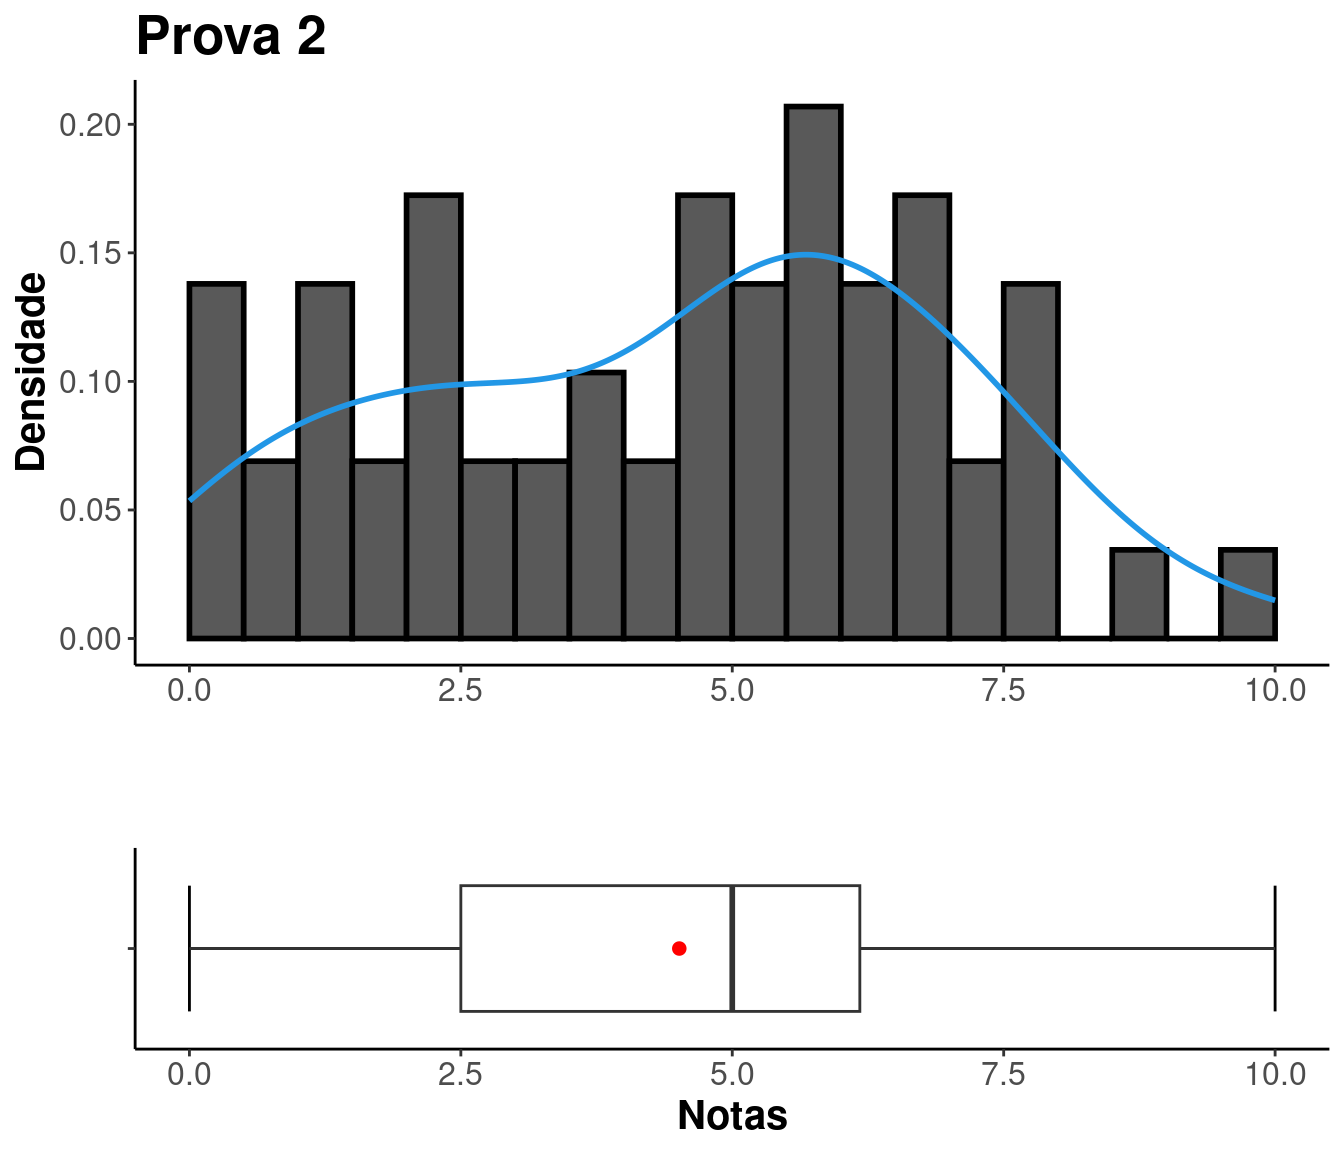
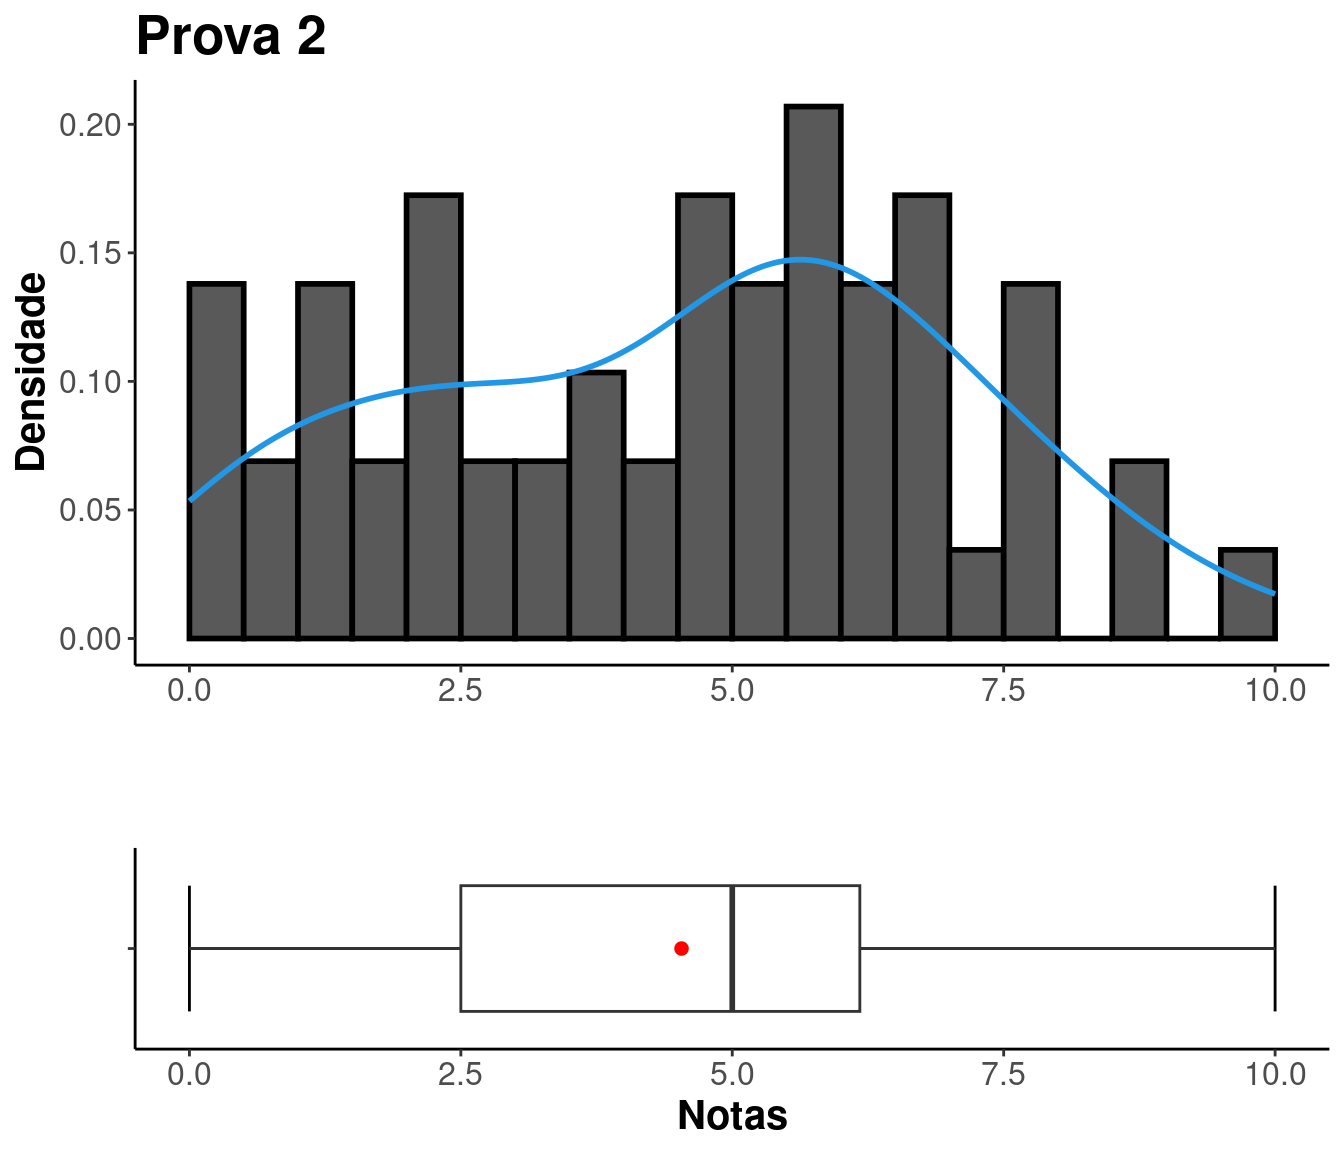
adiciona notas exame

diff --git a/notas.html b/notas.html
@@ -415,8 +415,8 @@ Cavazani de Freitas</div></h3>
 <p>Busque sua situação digitando seu GRR na caixa “Search”.</p>
 <p><br />
 </p>
-<div class="datatables html-widget html-fill-item" id="htmlwidget-8a1f7aeb4c11bf0b2bb7" style="width:100%;height:auto;"></div>
-<script type="application/json" data-for="htmlwidget-8a1f7aeb4c11bf0b2bb7">{"x":{"filter":"none","vertical":false,"editable":{"target":"cell","disable":{"columns":null},"numeric":[1,2,3,4,5,6,7,8,9,10],"date":[]},"data":[["GRR20242362","GRR20231110","GRR20243664","GRR20246211","GRR20244433","GRR20245487","GRR20231084","GRR20242232","GRR20242002","GRR20243259","GRR20242597","GRR20224774","GRR20212066","GRR20231140","GRR20242590","GRR20244762","GRR20224898","GRR20242668","GRR20231100","GRR20240908","GRR20221431","GRR20240015","GRR20241136","GRR20240635","GRR20242230","GRR20244545","GRR20246288","GRR20242067","GRR20203831","GRR20235528","GRR20211300","GRR20240308","GRR20231134","GRR20242902","GRR20242084","GRR20245283","GRR20240199","GRR20231102","GRR20241641","GRR20246109","GRR20241016","GRR20240212","GRR20241234","GRR20240349","GRR20231098","GRR20221432","GRR20241038","GRR20244630","GRR20231137","GRR20240429","GRR20242663","GRR20231095","GRR20172573","GRR20240917","GRR20231108","GRR20231119","GRR20215537","GRR20242746","GRR20211312","GRR20166481","GRR20203874","GRR20241159","GRR20235996","GRR20209956","GRR20240193","GRR20244845","GRR20242753","GRR20245090","GRR20245416","GRR20246179"],[8,8,6,4,6,10,6,6,8,10,8,2,40,2,26,22,8,6,4,8,10,12,2,10,4,10,34,6,2,12,28,14,6,8,2,22,10,10,2,40,6,8,8,6,38,34,10,2,2,6,4,6,38,6,6,40,6,4,18,20,8,12,6,0,4,2,10,12,4,0],[8.199999999999999,8.5,7.2,5.2,9.800000000000001,3.5,7,3.5,6.1,7.2,2,3.3,null,5,2.6,3,5.3,4,5.7,6,7.8,8.1,8,6.1,6.7,8.199999999999999,null,6.3,8.5,8,null,4,6.6,8.1,6,7,4.5,4.2,8.699999999999999,null,8.199999999999999,8.300000000000001,7.5,8.9,null,null,7,5.5,8,7.2,5,6.5,null,7.6,7,null,3,5,2.6,5.7,7.4,8.6,6.5,7,8.6,4.3,8.5,1.3,8.4,7.2],[7.8,8,7,5.7,7.4,0.4,6.3,3,5.1,2.2,0.7,3,null,4,null,null,7.2,1.5,3.3,5,5,5.6,5,1.5,4.3,6.2,null,2.5,6,2.5,null,1.8,3.6,5,7,null,6.1,0,9,null,6.1,7.8,8,10,null,null,6,6,5.1,5.2,5.8,2.5,null,6.6,2,null,0,4,0.6000000000000001,null,7,7,5,3.5,4.3,1.1,2.5,0.4,5.3,1.2],[8.109999999999999,8.17,9.83,8.67,9,5.67,8.33,8.58,9.17,9.699999999999999,9.83,8.83,0,9.33,0,0,9.83,9.17,9.5,9.67,9.67,9.08,8.83,0,8.44,9.33,0,9.42,8.83,9.5,0,9.83,8.83,9.17,9.33,0,8.33,9.17,8.67,0,9,9.08,9.83,9,0,0,9.83,9.17,7.33,7.21,9.33,7.25,0,8.470000000000001,9.5,0,0,9.17,0,0,8.08,8.83,8,7.83,8,2.22,9,0,9.039999999999999,8.029999999999999],[8,9.85,10,8.1,10,7.1,9.18,5.83,8.32,9.9,2.62,0,0,8.74,2.6,0,7.43,6.22,10,9.02,9.5,9,8.69,7.32,8.44,9.92,0,8.1,0,8.75,0,7.25,6.5,10,8.5,10,7.95,6.65,9.5,0,9.51,9.49,9.83,10,0,4.18,6.58,9.75,9.699999999999999,7.33,8.640000000000001,9.44,0,9.57,7.79,0,0,8.449999999999999,0,9.25,9.59,10,8.75,9,9.15,0,10,3.81,9.27,8.24],[7.83,9.050000000000001,10,3.1,10,6.95,8.25,6.55,9.23,9.300000000000001,1.88,0,0,6.88,2.6,0,6.38,2.73,9.07,8.35,9.33,8.81,9.039999999999999,4.53,9.029999999999999,9.5,0,9.699999999999999,0,5.43,0,5.77,6.1,9.4,9.1,9.029999999999999,4.93,6.66,6.88,0,8.35,8.529999999999999,9.4,10,0,0,4.7,0,8.779999999999999,6.1,5.73,5.1,0,9.050000000000001,6.18,0,0,7.15,0,7.75,6.35,9.630000000000001,0,5,7.66,0,9.4,2.08,8.91,5.58],[7.71,10,9.33,9.699999999999999,10,4.45,9.73,9.76,9.83,9.5,0,5.11,0,7.83,0,0,8.1,9.83,9.609999999999999,8.35,10,8.710000000000001,10,0,8.56,9.9,0,7.1,8.81,9.199999999999999,0,8.25,8.1,10,9.789999999999999,0,8.91,8.550000000000001,9.18,0,9.9,10,9.550000000000001,9.710000000000001,0,0,10,9.49,8.300000000000001,9.06,9.800000000000001,0,0,8.51,10,0,9.16,10,0,0,9.550000000000001,9,10,10,9.710000000000001,0,9.27,5.49,10,8.67],[4.43,10,10,7,9.800000000000001,5.37,9,8.42,8.800000000000001,0,0,8.869999999999999,0,8.82,0,0,8.800000000000001,9.42,8.65,8.199999999999999,7.5,9.75,9,0,8.300000000000001,8.359999999999999,0,9.1,9.23,9.02,0,0.17,9.1,9.01,9.130000000000001,0,9,1,9.06,0,9.83,9.25,9.06,9.800000000000001,0,0,9.43,7.75,9.6,6.73,8.449999999999999,0,0,9.460000000000001,8.800000000000001,0,0,10,0,0,0,8.85,9.800000000000001,10,9.17,0,9.27,8.27,9.1,0],[8.109999999999999,8.17,9.83,8.67,9,5.67,8.33,8.58,9.17,9.699999999999999,9.83,8.83,0,9.33,0,0,9.83,9.17,9.5,9.67,9.67,9.08,8.83,0,8.44,9.33,0,9.42,8.83,9.5,0,9.83,8.83,9.17,9.33,0,8.33,9.17,8.67,0,9,9.08,9.83,9,0,0,9.83,9.17,7.33,7.21,9.33,7.25,0,8.470000000000001,9.5,0,0,9.17,0,0,8.08,8.83,8,7.83,8,2.22,9,0,9.039999999999999,8.029999999999999],[8.199999999999999,8.9,8.9,7,9.5,4.1,8,6,7.8,7,4,5.1,0,7,0.9,0.8,8,5.8,7.4,7.7,8.300000000000001,8.4,8.1,2.6,7.4,8.699999999999999,0,7,7.6,7.5,0,5.8,7,8.300000000000001,8.300000000000001,2.8,7,5.1,9.199999999999999,0,8.6,9,9.1,9.9,0,0.2,8.1,7.4,7.7,7,7.5,5.5,0,8.300000000000001,7,0,1.3,7.1,0.8,2.4,7.7,8.800000000000001,7,7,7.8,2.1,7.7,1.5,8.4,5.9],["APROVADO","APROVADO","APROVADO","APROVADO","APROVADO","EXAME","APROVADO","EXAME","APROVADO","APROVADO","EXAME","EXAME","REPROVADO","APROVADO","REPROVADO","REPROVADO","APROVADO","EXAME","APROVADO","APROVADO","APROVADO","APROVADO","APROVADO","REPROVADO","APROVADO","APROVADO","REPROVADO","APROVADO","APROVADO","APROVADO","REPROVADO","EXAME","APROVADO","APROVADO","APROVADO","REPROVADO","APROVADO","EXAME","APROVADO","REPROVADO","APROVADO","APROVADO","APROVADO","APROVADO","REPROVADO","REPROVADO","APROVADO","APROVADO","APROVADO","APROVADO","APROVADO","EXAME","REPROVADO","APROVADO","APROVADO","REPROVADO","REPROVADO","APROVADO","REPROVADO","REPROVADO","APROVADO","APROVADO","APROVADO","APROVADO","APROVADO","REPROVADO","APROVADO","REPROVADO","APROVADO","EXAME"]],"container":"<table class=\"cell-border stripe\">\n  <thead>\n    <tr>\n      <th>GRR<\/th>\n      <th>FALTAS<\/th>\n      <th>PROVA 1<\/th>\n      <th>PROVA 2<\/th>\n      <th>PROVA 3<\/th>\n      <th>REMOTA 1<\/th>\n      <th>REMOTA 2<\/th>\n      <th>REMOTA 3<\/th>\n      <th>REMOTA 4<\/th>\n      <th>REMOTA 5<\/th>\n      <th>NOTAS PRÉ EXAME<\/th>\n      <th>SITUAÇÃO PRÉ EXAME<\/th>\n    <\/tr>\n  <\/thead>\n<\/table>","options":{"columnDefs":[{"className":"dt-right","targets":[1,2,3,4,5,6,7,8,9,10]},{"name":"GRR","targets":0},{"name":"FALTAS","targets":1},{"name":"PROVA 1","targets":2},{"name":"PROVA 2","targets":3},{"name":"PROVA 3","targets":4},{"name":"REMOTA 1","targets":5},{"name":"REMOTA 2","targets":6},{"name":"REMOTA 3","targets":7},{"name":"REMOTA 4","targets":8},{"name":"REMOTA 5","targets":9},{"name":"NOTAS PRÉ EXAME","targets":10},{"name":"SITUAÇÃO PRÉ EXAME","targets":11}],"order":[],"autoWidth":false,"orderClasses":false}},"evals":[],"jsHooks":[]}</script>
+<div class="datatables html-widget html-fill-item" id="htmlwidget-55174da12bbe83119ea9" style="width:100%;height:auto;"></div>
+<script type="application/json" data-for="htmlwidget-55174da12bbe83119ea9">{"x":{"filter":"none","vertical":false,"editable":{"target":"cell","disable":{"columns":null},"numeric":[1,2,3,4,5,6,7,8,9,10,11],"date":[]},"data":[["GRR20242362","GRR20231110","GRR20243664","GRR20246211","GRR20244433","GRR20245487","GRR20231084","GRR20242232","GRR20242002","GRR20243259","GRR20242597","GRR20224774","GRR20212066","GRR20231140","GRR20242590","GRR20244762","GRR20224898","GRR20242668","GRR20231100","GRR20240908","GRR20221431","GRR20240015","GRR20241136","GRR20240635","GRR20242230","GRR20244545","GRR20246288","GRR20242067","GRR20203831","GRR20235528","GRR20211300","GRR20240308","GRR20231134","GRR20242902","GRR20242084","GRR20245283","GRR20240199","GRR20231102","GRR20241641","GRR20246109","GRR20241016","GRR20240212","GRR20241234","GRR20240349","GRR20231098","GRR20221432","GRR20241038","GRR20244630","GRR20231137","GRR20240429","GRR20242663","GRR20231095","GRR20172573","GRR20240917","GRR20231108","GRR20231119","GRR20215537","GRR20242746","GRR20211312","GRR20166481","GRR20203874","GRR20241159","GRR20235996","GRR20209956","GRR20240193","GRR20244845","GRR20242753","GRR20245090","GRR20245416","GRR20246179"],[8,8,6,4,6,10,6,6,8,10,8,2,40,2,26,22,8,6,4,8,10,12,2,10,4,10,34,6,2,12,28,14,6,8,2,22,10,10,2,40,6,8,8,6,38,34,10,2,2,6,4,6,38,6,6,40,6,4,18,20,8,12,6,0,4,2,10,12,4,0],[8.199999999999999,8.5,7.2,5.2,9.800000000000001,3.5,7,3.5,6.1,7.2,2,3.3,null,5,2.6,3,5.3,4,5.7,6,7.8,8.1,8,6.1,6.7,8.199999999999999,null,6.3,8.5,8,null,4,6.6,8.1,6,7,4.5,4.2,8.699999999999999,null,8.199999999999999,8.300000000000001,7.5,8.9,null,null,7,5.5,8,7.2,5,6.5,null,7.6,7,null,3,5,2.6,5.7,7.4,8.6,6.5,7,8.6,4.3,8.5,1.3,8.4,7.2],[7.8,8,7,5.7,8.6,0.4,6.3,3,5.1,2.2,0.7,3,null,4,null,null,7.2,1.5,3.3,5,5,5.6,5,1.5,4.3,6.2,null,2.5,6,2.5,null,1.8,3.6,5,7,null,6.1,0,9,null,6.1,7.8,8,10,null,null,6,6,5.1,5.2,5.8,2.5,null,6.6,2,null,0,4,0.6000000000000001,null,7,7,5,3.5,4.3,1.1,2.5,0.4,5.3,1.2],[8.109999999999999,8.17,9.83,8.67,9,5.67,8.33,8.58,9.17,9.699999999999999,9.83,8.83,0,9.33,0,0,9.83,9.17,9.5,9.67,9.67,9.08,8.83,0,8.44,9.33,0,9.42,8.83,9.5,0,9.83,8.83,9.17,9.33,0,8.33,9.17,8.67,0,9,9.08,9.83,9,0,0,9.83,9.17,7.33,7.21,9.33,7.25,0,8.470000000000001,9.5,0,0,9.17,0,0,8.08,8.83,8,7.83,8,2.22,9,0,9.039999999999999,8.029999999999999],[8,9.85,10,8.1,10,7.1,9.18,5.83,8.32,9.9,2.62,0,0,8.74,2.6,0,7.43,6.22,10,9.02,9.5,9,8.69,7.32,8.44,9.92,0,8.1,0,8.75,0,7.25,6.5,10,8.5,10,7.95,6.65,9.5,0,9.51,9.49,9.83,10,0,4.18,6.58,9.75,9.699999999999999,7.33,8.640000000000001,9.44,0,9.57,7.79,0,0,8.449999999999999,0,9.25,9.59,10,8.75,9,9.15,0,10,3.81,9.27,8.24],[7.83,9.050000000000001,10,3.1,10,6.95,8.25,6.55,9.23,9.300000000000001,1.88,0,0,6.88,2.6,0,6.38,2.73,9.07,8.35,9.33,8.81,9.039999999999999,4.53,9.029999999999999,9.5,0,9.699999999999999,0,5.43,0,5.77,6.1,9.4,9.1,9.029999999999999,4.93,6.66,6.88,0,8.35,8.529999999999999,9.4,10,0,0,4.7,0,8.779999999999999,6.1,5.73,5.1,0,9.050000000000001,6.18,0,0,7.15,0,7.75,6.35,9.630000000000001,0,5,7.66,0,9.4,2.08,8.91,5.58],[7.71,10,9.33,9.699999999999999,10,4.45,9.73,9.76,9.83,9.5,0,5.11,0,7.83,0,0,8.1,9.83,9.609999999999999,8.35,10,8.710000000000001,10,0,8.56,9.9,0,7.1,8.81,9.199999999999999,0,8.25,8.1,10,9.789999999999999,0,8.91,8.550000000000001,9.18,0,9.9,10,9.550000000000001,9.710000000000001,0,0,10,9.49,8.300000000000001,9.06,9.800000000000001,0,0,8.51,10,0,9.16,10,0,0,9.550000000000001,9,10,10,9.710000000000001,0,9.27,5.49,10,8.67],[4.43,10,10,7,9.800000000000001,5.37,9,8.42,8.800000000000001,0,0,8.869999999999999,0,8.82,0,0,8.800000000000001,9.42,8.65,8.199999999999999,7.5,9.75,9,0,8.300000000000001,8.359999999999999,0,9.1,9.23,9.02,0,0.17,9.1,9.01,9.130000000000001,0,9,1,9.06,0,9.83,9.25,9.06,9.800000000000001,0,0,9.43,7.75,9.6,6.73,8.449999999999999,0,0,9.460000000000001,8.800000000000001,0,0,10,0,0,0,8.85,9.800000000000001,10,9.17,0,9.27,8.27,9.1,0],[8.109999999999999,8.17,9.83,8.67,9,5.67,8.33,8.58,9.17,9.699999999999999,9.83,8.83,0,9.33,0,0,9.83,9.17,9.5,9.67,9.67,9.08,8.83,0,8.44,9.33,0,9.42,8.83,9.5,0,9.83,8.83,9.17,9.33,0,8.33,9.17,8.67,0,9,9.08,9.83,9,0,0,9.83,9.17,7.33,7.21,9.33,7.25,0,8.470000000000001,9.5,0,0,9.17,0,0,8.08,8.83,8,7.83,8,2.22,9,0,9.039999999999999,8.029999999999999],[null,null,null,null,null,null,null,2,null,null,1.7,2,null,null,null,null,null,5.4,null,null,null,null,null,null,null,null,null,null,null,null,null,null,null,null,null,null,null,0.8,null,null,null,null,null,null,null,null,null,null,null,null,null,null,null,null,null,null,null,null,null,null,null,null,null,null,null,null,null,null,null,1],[8.199999999999999,8.9,8.9,7,9.800000000000001,2.05,8,4,7.8,7,2.85,3.55,0,7,0.9,0.8,8,5.6,7.4,7.7,8.300000000000001,8.4,8.1,2.6,7.4,8.699999999999999,0,7,7.6,7.5,0,2.9,7,8.300000000000001,8.300000000000001,2.8,7,2.95,9.199999999999999,0,8.6,9,9.1,9.9,0,0.2,8.1,7.4,7.7,7,7.5,2.75,0,8.300000000000001,7,0,1.3,7.1,0.8,2.4,7.7,8.800000000000001,7,7,7.8,2.1,7.7,1.5,8.4,3.45],["APROVADO","APROVADO","APROVADO","APROVADO","APROVADO","REPROVADO","APROVADO","REPROVADO","APROVADO","APROVADO","REPROVADO","REPROVADO","REPROVADO","APROVADO","REPROVADO","REPROVADO","APROVADO","APROVADO","APROVADO","APROVADO","APROVADO","APROVADO","APROVADO","REPROVADO","APROVADO","APROVADO","REPROVADO","APROVADO","APROVADO","APROVADO","REPROVADO","REPROVADO","APROVADO","APROVADO","APROVADO","REPROVADO","APROVADO","REPROVADO","APROVADO","REPROVADO","APROVADO","APROVADO","APROVADO","APROVADO","REPROVADO","REPROVADO","APROVADO","APROVADO","APROVADO","APROVADO","APROVADO","REPROVADO","REPROVADO","APROVADO","APROVADO","REPROVADO","REPROVADO","APROVADO","REPROVADO","REPROVADO","APROVADO","APROVADO","APROVADO","APROVADO","APROVADO","REPROVADO","APROVADO","REPROVADO","APROVADO","REPROVADO"]],"container":"<table class=\"cell-border stripe\">\n  <thead>\n    <tr>\n      <th>GRR<\/th>\n      <th>FALTAS<\/th>\n      <th>PROVA 1<\/th>\n      <th>PROVA 2<\/th>\n      <th>PROVA 3<\/th>\n      <th>REMOTA 1<\/th>\n      <th>REMOTA 2<\/th>\n      <th>REMOTA 3<\/th>\n      <th>REMOTA 4<\/th>\n      <th>REMOTA 5<\/th>\n      <th>EXAME<\/th>\n      <th>NOTAS FINAIS<\/th>\n      <th>SITUAÇÃO FINAL<\/th>\n    <\/tr>\n  <\/thead>\n<\/table>","options":{"columnDefs":[{"className":"dt-right","targets":[1,2,3,4,5,6,7,8,9,10,11]},{"name":"GRR","targets":0},{"name":"FALTAS","targets":1},{"name":"PROVA 1","targets":2},{"name":"PROVA 2","targets":3},{"name":"PROVA 3","targets":4},{"name":"REMOTA 1","targets":5},{"name":"REMOTA 2","targets":6},{"name":"REMOTA 3","targets":7},{"name":"REMOTA 4","targets":8},{"name":"REMOTA 5","targets":9},{"name":"EXAME","targets":10},{"name":"NOTAS FINAIS","targets":11},{"name":"SITUAÇÃO FINAL","targets":12}],"order":[],"autoWidth":false,"orderClasses":false}},"evals":[],"jsHooks":[]}</script>
 <hr />
 </div>
 <div id="presenças" class="section level1">
@@ -574,7 +574,7 @@ class="section level1 tabset tabset-fade tabset-pills">
 <td align="center">58</td>
 <td align="center">0</td>
 <td align="center">2.5</td>
-<td align="center">4.512</td>
+<td align="center">4.533</td>
 <td align="center">5</td>
 <td align="center">6.175</td>
 <td align="center">10</td>
@@ -597,8 +597,8 @@ class="section level1 tabset tabset-fade tabset-pills">
 <tbody>
 <tr class="odd">
 <td align="center">10</td>
-<td align="center">6.223</td>
-<td align="center">2.495</td>
+<td align="center">6.369</td>
+<td align="center">2.524</td>
 </tr>
 </tbody>
 </table>
@@ -914,11 +914,11 @@ class="section level1 tabset tabset-fade tabset-pills">
 <div id="notas-finais" class="section level2">
 <h2>NOTAS FINAIS</h2>
 <center>
-<table style="width:75%;">
+<table style="width:76%;">
 <colgroup>
 <col width="6%" />
 <col width="12%" />
-<col width="9%" />
+<col width="11%" />
 <col width="11%" />
 <col width="13%" />
 <col width="8%" />
@@ -939,8 +939,8 @@ class="section level1 tabset tabset-fade tabset-pills">
 <tr class="odd">
 <td align="center">70</td>
 <td align="center">0</td>
-<td align="center">2.55</td>
-<td align="center">5.548</td>
+<td align="center">2.763</td>
+<td align="center">5.644</td>
 <td align="center">7</td>
 <td align="center">8.1</td>
 <td align="center">9.9</td>
@@ -963,8 +963,8 @@ class="section level1 tabset tabset-fade tabset-pills">
 <tbody>
 <tr class="odd">
 <td align="center">9.9</td>
-<td align="center">10.71</td>
-<td align="center">3.272</td>
+<td align="center">10.36</td>
+<td align="center">3.218</td>
 </tr>
 </tbody>
 </table>
